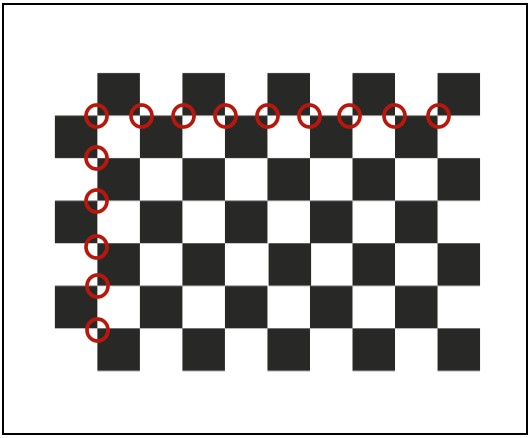
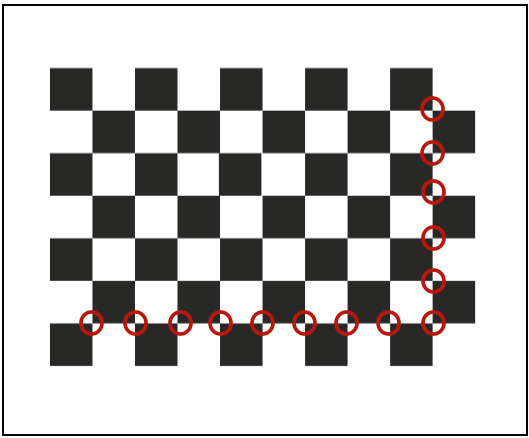
Documentation Update
Update of Calibration section, New section "Start-Up", FAQ edited.

diff --git a/docs/faq.md b/docs/faq.md
@@ -12,32 +12,60 @@
 
 - What username and password do I need for login the FabScanPi?
 
-The username / password is the same as in the standard raspbian configuration: 
+  The username / password is the same as in the standard raspbian configuration: 
 
-Username: **pi**
-Password: **raspberry**
+  Username: **pi**
 
-
-
-- What are the standard values in the config-file for the box dimensions?
-
-The values may vary a bit, depending on your assembly. But for getting started these values can be used:
+  Password: **raspberry**
 
 
-|                | x-value | y-value | z-value |
-| -------------- | :-----: | :-----: | :-----: |
-| Camera         |    0    |   6.6   |   24    |
-| Laser          |   10    |   7.3   |   20    |
-| Turntable      |    0    |    0    |   7.5   |
-| Scanner origin |   n/a   |  0.69   |   n/a   |
 
-|                 | Frame value |
-| --------------- | :---------: |
-| Frame dimension |     24      |
+- There is no preview video visible in the menu.
 
-Note: Unit for all values is centimeters [cm].
+  There is no video - only a black area, maybe a turning hour glass visible. That is a known problem of some browsers but will have not effect the scanner's function. This bug will be fixed in the future.
+
+  
+
+- Where can I find the config file?
+
+  You can find it in the folder: ```/var/log/fabscanpi```
+
+  The config file is named : ```fabscanpi.log```
+
+  
 
 
+
+- How can I view the log file?
+
+  You can see the log file on screen by typing:
+
+  ```cat /var/log/fabscanpi/fabscanpi.log```
+
+  
+
+
+-   How can I edit the log file?
+
+  You can edit the log file with the nano editor by typing:
+
+  ````sudo nano /var/log/fabscanpi/fabscanpi.log```
+
+  To save the file press "Ctrl+O" followed by "enter".
+
+  To exit the nano editor press "Ctrl+X".
+
+
+
+- How can I stop / start the FabScanPi server?
+
+  You can stop the server from the console by typing:
+
+  ```sudo /etc/init.d/fabscanpi-server stop```
+
+  or to (re) start:
+
+  ```sudo /etc/init.d/fabscanpi-server stop```
 
 ------
 
@@ -45,7 +73,7 @@ Note: Unit for all values is centimeters [cm].
 
 -  What power source(s) do I need to get my FabScanPi working?
 
-The FabScanPi will need 12V DC and 5V DC. There are different options to fulfil this requirement:
+   The FabScanPi will need 12V DC and 5V DC. There are different options to fulfil this requirement:
 
 
 
@@ -69,32 +97,31 @@ NOTE: For details and specifications please consult the hardware chapter.
 
 - What is the rotating direction of the scan table?
 
-It should move clockwise – if not please consult the hardware chapter of our documentation and check the connection of your stepper.
+  It should move clockwise – if not please consult the hardware chapter of our documentation and check the connection of your stepper.
 
 
 
-- What camera will work?
+- Which camera will work?
 
-FabScan Pi can be built with both Raspberry Pi Camera Modules V 1.x or V 2.x.
+  FabScan Pi can be built with both Raspberry Pi Camera Modules V 1.x or V 2.x.
 
 
 
 - Is the LED-Ring / PCB-board with LEDs mandatory?
 
-No, you can start without the LEDs when you only need un-textured scans. To archive good quality texture scans we highly recommend the use of an LED light source.
+  Yes, because the light is needed to perform the calibration. It is also necessary to archive good quality texture scans.
 
 
 
 - Which LED-ring is compatible?
 
-Any ring using WS2812B LEDs (or compatible) will do.
+  Any ring using WS2812B LEDs (or compatible) will do. To avoid problems with the calibration we suggest using the FabScanPi LED-board.
 
 
 
 - I have a Raspberry Cam Module with NoIR. Can I use it?
 
-There’s no advantage in using the NoIR cam. The algorithms for the laser detection are made for 
-the normal cam. Therefore we recommend to use the normal camera modules.
+  There’s no advantage in using the NoIR cam. The algorithms for the laser detection are made for the normal cam. Therefore we recommend to use the normal camera modules.
 
 
 
@@ -104,31 +131,39 @@ the normal cam. Therefore we recommend to use the normal camera modules.
 
 - The turntable is jerking during the scan process what can I do?
 
-This behavior is quite normal because every time a new image has been shot the table just moves to the next position. If the table is turning smoothly (clockwise) during scan preview everything should be fine.
+  This behavior is quite normal because every time a new image has been shot the table just moves to the next position. If the table is turning smoothly (clockwise) during scan preview everything should be fine.
 
 
 
 - My scan is cut-off on top and / or bottom. What can I do?
 
-Try to optimize your scan results by changing the “dimension” value.
+  Try to optimize your scan results by measuring the "origin_distance" of your calibration sheet. Correct the value in the configuration. Make sure the size of the black squares on your calibration sheet as the same as "square_size" in the calibration file.
 
 
 
 - The texture scan is mirror-inverted.
 
-Check the rotating direction of your turntable (and the connection of the stepper motor). Check and adjust your config-settings for the “dimension”-value.
+  Check the rotating direction of your turntable (and the connection of the stepper motor). Check and adjust your config-settings for the “dimension”-value.
 
 
 
 - The laser cannot be detected.
 
-Make sure your laser adjustment is correct. The laser must pass the scanning table right through the center. If no object is on the table the laser should be visible in the preview image (on the rear wall close to the left border of the image).
+  Make sure your laser adjustment is correct. The laser must pass the scanning table right through the center. If no object is on the table the laser should be visible in the preview image (on the rear wall close to the left border of the image).
 
 
 
 - The scans don’t have the same shape as the original.
 
-Check if your laser is aligned in vertical direction.
+  Check if your laser is aligned in vertical direction. Do another calibration.
+
+
+
+- Calibrations fails / no "Calibration finished" message is displayed
+
+  Check the starting position of the calibration sheet and make sure your box is closed during the scan. The calibration sheet must be placed with a black square in the upper left corner.
+
+
 
 
 

diff --git a/docs/software.md b/docs/software.md
@@ -161,11 +161,11 @@ sudo apt-get update && apt-get dist-upgrade
 FabScan Pi is tested on: 
 
 
-|                   Browser                   |      OS      |        Versions        |
-| :--------------------------------------: | :----------: | :--------------------: |
+|                 Browser                  |      OS      |                 Versions                 |
+| :--------------------------------------: | :----------: | :--------------------------------------: |
 | ![browser_logo](images/chrome-logo.png)  | OSX, Windows | 47.0.2526.106 (64-bit), 58.0.3029.110 (64-bit) |
-| ![browser_logo](images/firefox-logo.png) |     OSX, Windows      |         43.0.4,  53.0.3 (64-Bit) , 54.0 (32bit)        |
-| ![browser_logo](images/safari-logo.png)  |  OSX   | Version 9.1.1 (11601.6.17) |
+| ![browser_logo](images/firefox-logo.png) | OSX, Windows | 43.0.4,  53.0.3 (64-Bit) , 54.0 (32bit)  |
+| ![browser_logo](images/safari-logo.png)  |     OSX      |        Version 9.1.1 (11601.6.17)        |
 
 
 **Getting Started<a name="gettingStarted"></a>**
@@ -179,13 +179,23 @@ FabScan Pi is tested on:
 
 
 
- Now your can start using your FabScanPi.
+**First start-up<a name="firststartup-"></a>**
+
+Before you proceed with the calibration and your first scan please check a few things to ensure your FabScanPi is working properly:
+
+- Click on the duck icon (New Scan) to enter the scan menu.
+- Now the turntable should turn clockwise in a constant smooth manner.
+- The laser must be on and needs to be adjusted vertically and to cross the center of the turntable. You will have to do the adjustment by hand because the servo / stepper support for the laser has not been implemented yet.
+- Check if you can see a small video preview in the lower lest corner of the scan menu. Maybe there is only a turning hour glass visible. That is a known problem of some browsers but will have not effect the scanner's function.
+- Click on the X (Cancel) to get back to the main menu.
+
+
 
 ------
 
 **Calibration<a name="calibration"></a>**
 
-Before you can start with your first scans you must perform an calibration. That is necessary because every Scanner housing is a bit different.  By calibrating your scanner the software will get the exact parameters of your FabScanPi. Only after finishing the calibration successfully you will have good scan results .
+Before you can start with your first scans you must perform a calibration. That is necessary because every Scanner housing is a bit different.  By calibrating your scanner the software will get the exact parameters of your FabScanPi. Only after finishing the calibration successfully you will have good scan results .
 
 The calibration will be done by scanning an calibration sheet with a specific pattern which must be placed on the turntable. The pattern must face the camera:
 
@@ -203,6 +213,16 @@ Option 2: You have an 3D-printer available and can print out our calibration she
 Note: Please check if your print of the calibration sheet has the correct scale. Each black square should have the side length of 10 mm (1 cm). If the size is not correct please correct the parameter "pattern square size" in the configuration file. 
 
 You can find all details in the chapter "[How to Edit the Config File](#editConfigFile)".
+
+Place the calibration sheet on the turntable facing the camera.
+
+IMPORTANT: Make sure that in the upper left corner is a black square as you can see on the picture below. If the sheet is placed wrong the calibration will generate incorrect values or may fail.
+
+![main_menu](images/calibration_sheet_position.jpg)
+
+
+
+Please close the box to avoid external light sources to impact the calibration process. Start  your browser and call http://ip-of-your-raspberry-pi:8080 which will open the user interface. 
 
 
 
